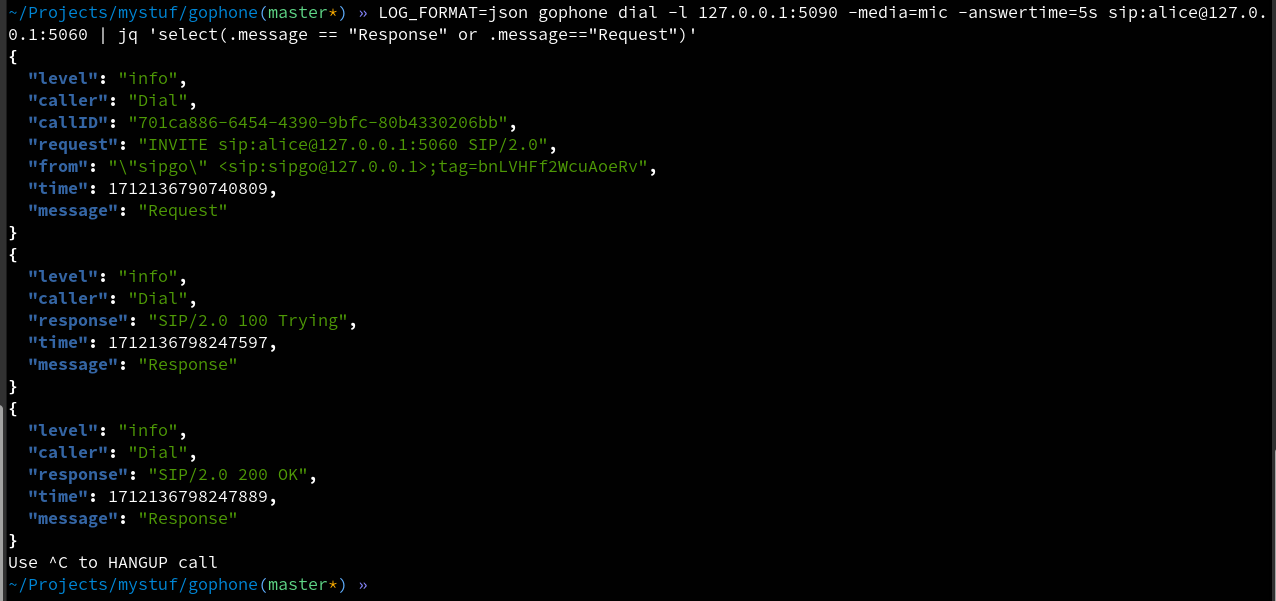
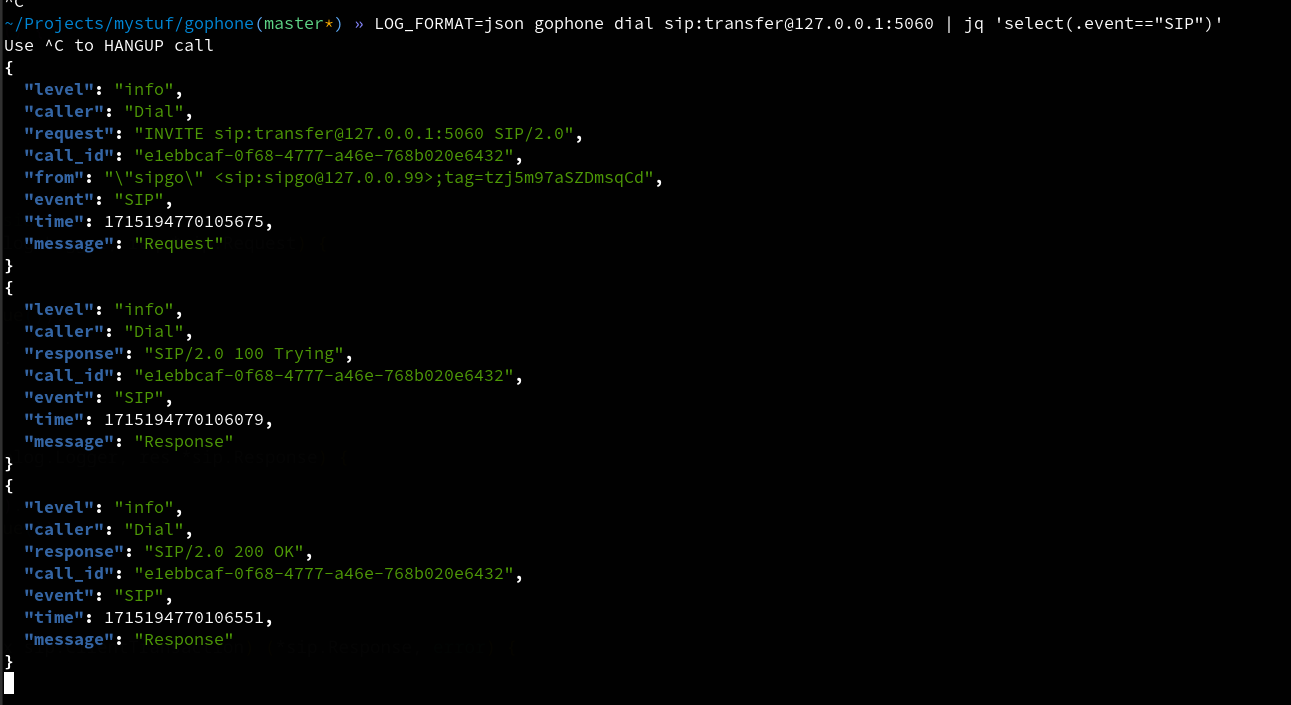
feat: transfer and interactive mode added

Changed region(s): [[0.0, 0.0, 1.0, 1.0]]

diff --git a/README.md b/README.md
@@ -19,7 +19,7 @@ Any feature/bug or supporting this is open for discussion, but for now developme
 - [x] Linux amd64
 - [x] Windows
 - [x] macOS amd64
-- [x] macOS arm64 (NOT TESTED)
+- [x] macOS arm64 (no call transcription supported)
 
 For audio it expected you have some preinstalled libraries.
 
@@ -41,7 +41,9 @@ For audio it expected you have some preinstalled libraries.
 - [x] Offline Speech To text Transcription for output.
 - [x] Offline Speech To text Transcription for input
 - [x] Sending DTMF rfc4733 with delay control
-- [ ] Transfers, BlindTransfer, AttendedTransfer automation as subcommand of dial/answer
+- [x] Simple INTERACTIVE mode Commands via STDIN
+- [x] BlindTransfer automation as subcommand of dial/answer
+- [ ] AttendedTransfer automation as subcommand of dial/answer
 - [ ] Recording audio for easier visiting later
 - [ ] Better events logging in Structured logging for easier JSON verification.
 - [ ] Logging SIP traces to file
@@ -71,9 +73,9 @@ $>gophone -h
 Usage of gophone command:
 
 Commands:
-  register      Send register request
-  dial          Dial destination
+  dial          Dial destination.
   answer        Answer call
+  register      Send register request only without answer.
 
   -t string
     	Transport udp|tcp|tls|ws|wss (default "udp")
@@ -92,11 +94,18 @@ gophone is CLI SIP softphone powered by sipgo library.
 To find more information about tool and licences visit
 https://github.com/emiago/gophone
 
-Examples:
+Answer:
 gophone answer -l 127.0.0.200:5060 
 gophone answer -l 127.0.0.200:5060 -code 486 -reason Busy
+
+Answer with register:
+gophone  answer -ua alice -username alice1234 -password 1234 -register "127.0.0.1:5060"
+
+Dial:
 gophone dial sip:1234@127.0.0.200:5060
 gophone dial -sipheader="X-AccountId:test123" sip:1234@server:5060
+
+Register:
 gophone register -username=sipgo -password=1234 127.0.0.1:5060 
 
 With digest authentication:
@@ -113,6 +122,9 @@ gophone dial -media=log -transcribe sip:1234@localhost:5060
 With DTMF:
 gophone dial -dtmf=79 -dtmf_delay=8s -dtmf_digit_delay=1s -media=speaker sip:1234@localhost:5060
 
+With INTERACTIVE mode:
+echo "wait=3s; dtmf=123; hangup;" | gophone dial -i -media=speaker sip:demo@127.0.0.1:5060
+
 
 RTP stats meaning:
 packets: number of packets
@@ -120,8 +132,6 @@ payload_total_size: sum size of payload recevied
 since_last_pkt: time duration between last packet recv/send
 zero_pkts: packets with payload that are samples zeroed
 ```
-
-
 
 
 ## Output example
@@ -132,11 +142,18 @@ Running a full call and transcription output at end.
 
 
 
-## Using jq and json format
+## Using jq and json format to verify output
 
 Using json allows some post verification for your call setup.
 
 ![output with jq filtering](images/jqjson.png)
+
+
+**Useful filtering**
+```bash 
+gophone ... | jq 'select(.caller=="Dial" and .event=="SIP")'
+gophone ... | jq 'select(.caller=="Dial" and .event=="DialogState")'
+```
 
 
 ### Media Testing with transcriber
